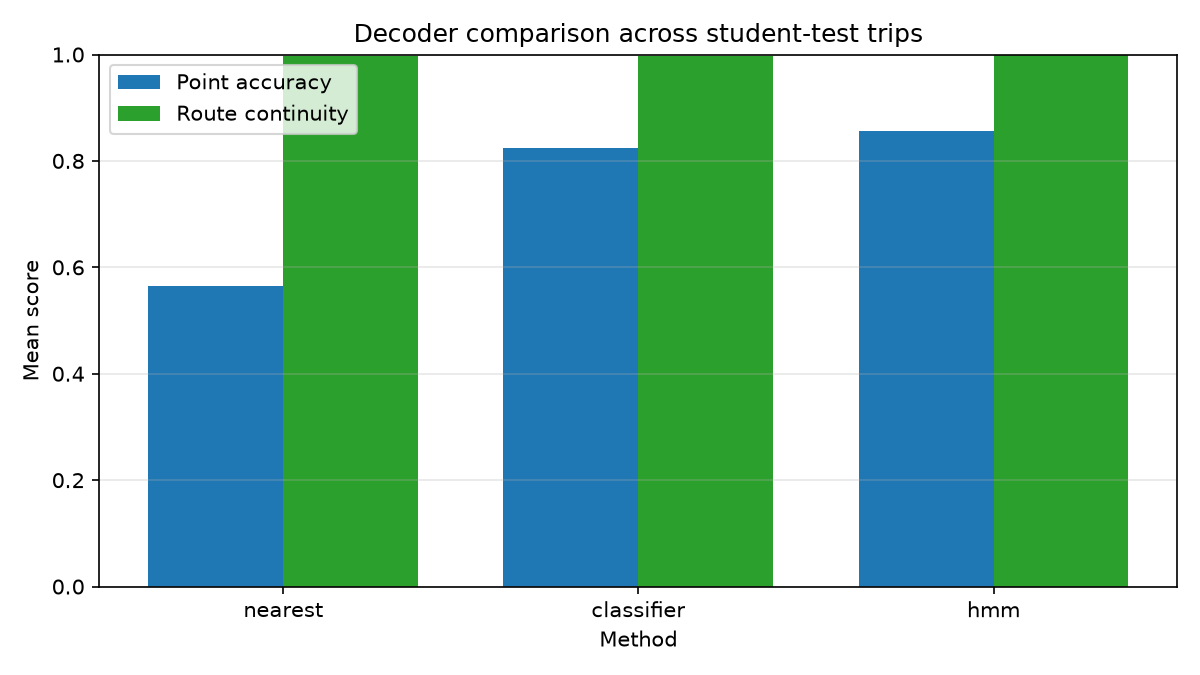
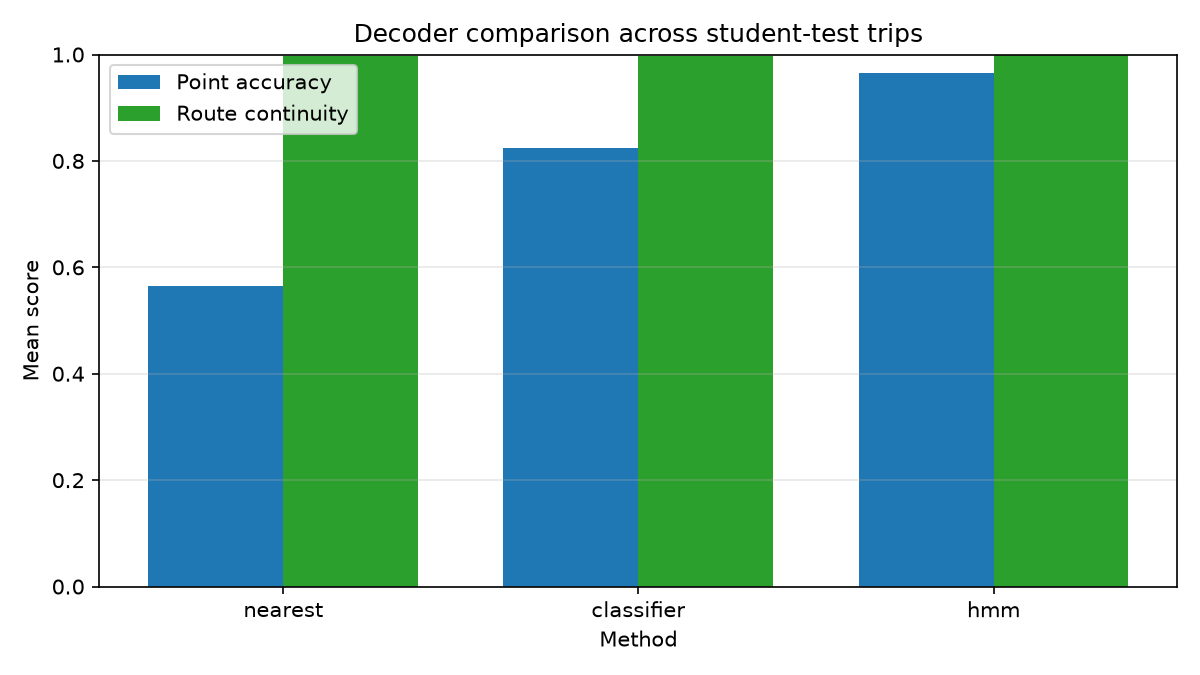
decoder: add frozen-decoder comparison and refresh decoder results

Changed region(s): [[0.7092, 0.0933, 0.8325, 0.2178]]

diff --git a/scripts/14_decoder_comparison.py b/scripts/14_decoder_comparison.py
@@ -1,0 +1,74 @@
+"""Regenerate the three-decoder comparison at the deployed HMM settings.
+
+Uses ``artifacts/hmm.json`` exactly as served by the API: no beta grid search,
+no artifact writes. Rewrites ``results/hmm_comparison.csv``, its figures, and
+the failure analysis so the report describes the shipped configuration.
+
+Run from the repository root: python scripts/14_decoder_comparison.py
+"""
+
+from __future__ import annotations
+
+import time
+from dataclasses import fields
+from pathlib import Path
+
+import _bootstrap  # noqa: F401
+import pandas as pd
+
+from pathsnap import config
+from pathsnap.artifacts import load_model_artifact, read_json
+from pathsnap.evaluate import evaluate_decoders, prepare_trip_inference
+from pathsnap.hmm import HMMConfig
+from pathsnap.io import iter_trips
+from pathsnap.viz import generate_decoder_plots
+
+
+def deployed_hmm_config(path: Path) -> HMMConfig:
+    payload = read_json(path)
+    allowed = {field.name for field in fields(HMMConfig)}
+    return HMMConfig(**{k: v for k, v in payload.items() if k in allowed})
+
+
+def main() -> None:
+    start = time.perf_counter()
+    paths = config.get_paths()
+    paths.validate_data()
+    config.ensure_output_directories(paths)
+
+    artifact = load_model_artifact(paths.artifact_dir / "model.joblib")
+    settings = deployed_hmm_config(paths.artifact_dir / "hmm.json")
+    print(
+        f"Deployed config: beta_m={settings.beta_m:g} "
+        f"refine_points={settings.refine_points} emission={settings.emission}"
+    )
+
+    rows = []
+    for trip in iter_trips(paths.test_data_dir, "test"):
+        inference = prepare_trip_inference(trip, artifact)
+        rows.append(evaluate_decoders(inference, settings))
+        print(f"  {trip.trip_id} decoded", flush=True)
+
+    comparison = pd.concat(rows, ignore_index=True)
+    comparison_path = paths.results_dir / "hmm_comparison.csv"
+    comparison.to_csv(comparison_path, index=False)
+
+    stored = pd.read_csv(comparison_path, dtype={"trip_id": str})
+    generate_decoder_plots(stored, paths.results_dir / "figures")
+
+    from pathsnap.evaluate import write_decoder_failure_analysis
+
+    write_decoder_failure_analysis(
+        stored, paths.results_dir / "hmm_failure_analysis.md"
+    )
+
+    summary = stored.groupby("method")[
+        ["point_accuracy", "route_continuity", "route_precision", "route_recall"]
+    ].mean()
+    print(summary.to_string())
+    print(f"Wrote {comparison_path}")
+    print(f"Runtime: {time.perf_counter() - start:.1f}s")
+
+
+if __name__ == "__main__":
+    main()

diff --git a/results/hmm_failure_analysis.md b/results/hmm_failure_analysis.md
@@ -4,21 +4,21 @@ Comparison of classifier-only predictions with classifier+HMM decoding. Positive
 
 | Trip | Classifier accuracy | HMM accuracy | Δ accuracy | Classifier continuity | HMM continuity | Δ continuity |
 | :--- | ---: | ---: | ---: | ---: | ---: | ---: |
-| 00000000 | 0.9205 | 0.9393 | +0.0188 | 0.9820 | 0.9940 | +0.0120 |
-| 00000007 | 0.8966 | 0.9121 | +0.0155 | 0.9928 | 1.0000 | +0.0072 |
-| 00000009 | 0.8103 | 0.8618 | +0.0515 | 1.0000 | 1.0000 | +0.0000 |
-| 00000040 | 0.8644 | 0.8825 | +0.0180 | 1.0000 | 1.0000 | +0.0000 |
-| 00000052 | 0.9160 | 0.9962 | +0.0802 | 1.0000 | 1.0000 | +0.0000 |
-| 00000056 | 0.8532 | 0.8985 | +0.0453 | 0.9995 | 1.0000 | +0.0005 |
-| 00000065 | 0.7708 | 0.7643 | -0.0065 | 1.0000 | 1.0000 | +0.0000 |
-| 00000076 | 0.7651 | 0.8250 | +0.0599 | 1.0000 | 1.0000 | +0.0000 |
-| 00000077 | 0.6392 | 0.6538 | +0.0146 | 1.0000 | 1.0000 | +0.0000 |
-| 00000091 | 0.8043 | 0.8284 | +0.0240 | 1.0000 | 1.0000 | +0.0000 |
+| 00000000 | 0.9221 | 0.9860 | +0.0639 | 0.9820 | 0.9907 | +0.0086 |
+| 00000007 | 0.9010 | 1.0000 | +0.0990 | 0.9931 | 1.0000 | +0.0069 |
+| 00000009 | 0.8093 | 0.9399 | +0.1306 | 1.0000 | 1.0000 | +0.0000 |
+| 00000040 | 0.8661 | 0.9496 | +0.0835 | 1.0000 | 1.0000 | +0.0000 |
+| 00000052 | 0.9198 | 1.0000 | +0.0802 | 1.0000 | 1.0000 | +0.0000 |
+| 00000056 | 0.8527 | 0.9888 | +0.1361 | 0.9995 | 1.0000 | +0.0005 |
+| 00000065 | 0.7734 | 0.9596 | +0.1862 | 1.0000 | 0.9951 | -0.0049 |
+| 00000076 | 0.7631 | 0.9670 | +0.2039 | 1.0000 | 1.0000 | +0.0000 |
+| 00000077 | 0.6374 | 0.8867 | +0.2493 | 1.0000 | 1.0000 | +0.0000 |
+| 00000091 | 0.8009 | 0.9748 | +0.1739 | 1.0000 | 1.0000 | +0.0000 |
 
 ## Case study: HMM helps
 
-Trip `00000052` gained +0.0802 point accuracy and +0.0000 route continuity. The transition term suppresses locally plausible but topologically isolated candidates, so the decoded sequence follows connected arcs instead of independent per-point snap decisions.
+Trip `00000077` gained +0.2493 point accuracy and +0.0000 route continuity. The transition term suppresses locally plausible but topologically isolated candidates, so the decoded sequence follows connected arcs instead of independent per-point snap decisions.
 
 ## Case study: HMM does not help
 
-Trip `00000065` lost 0.0065 point accuracy (continuity delta +0.0000). When the GPS noise or a parallel-road ambiguity makes several candidates nearly equally likely, the transition penalty can prefer a connected but locally wrong arc, overriding the classifier's top choice.
+Trip `00000000` showed the smallest gain (+0.0639 point accuracy, continuity delta +0.0086). No student-test trip regressed in point accuracy; this trip is the weakest positive case, where connectivity constraints had little room to correct errors.
